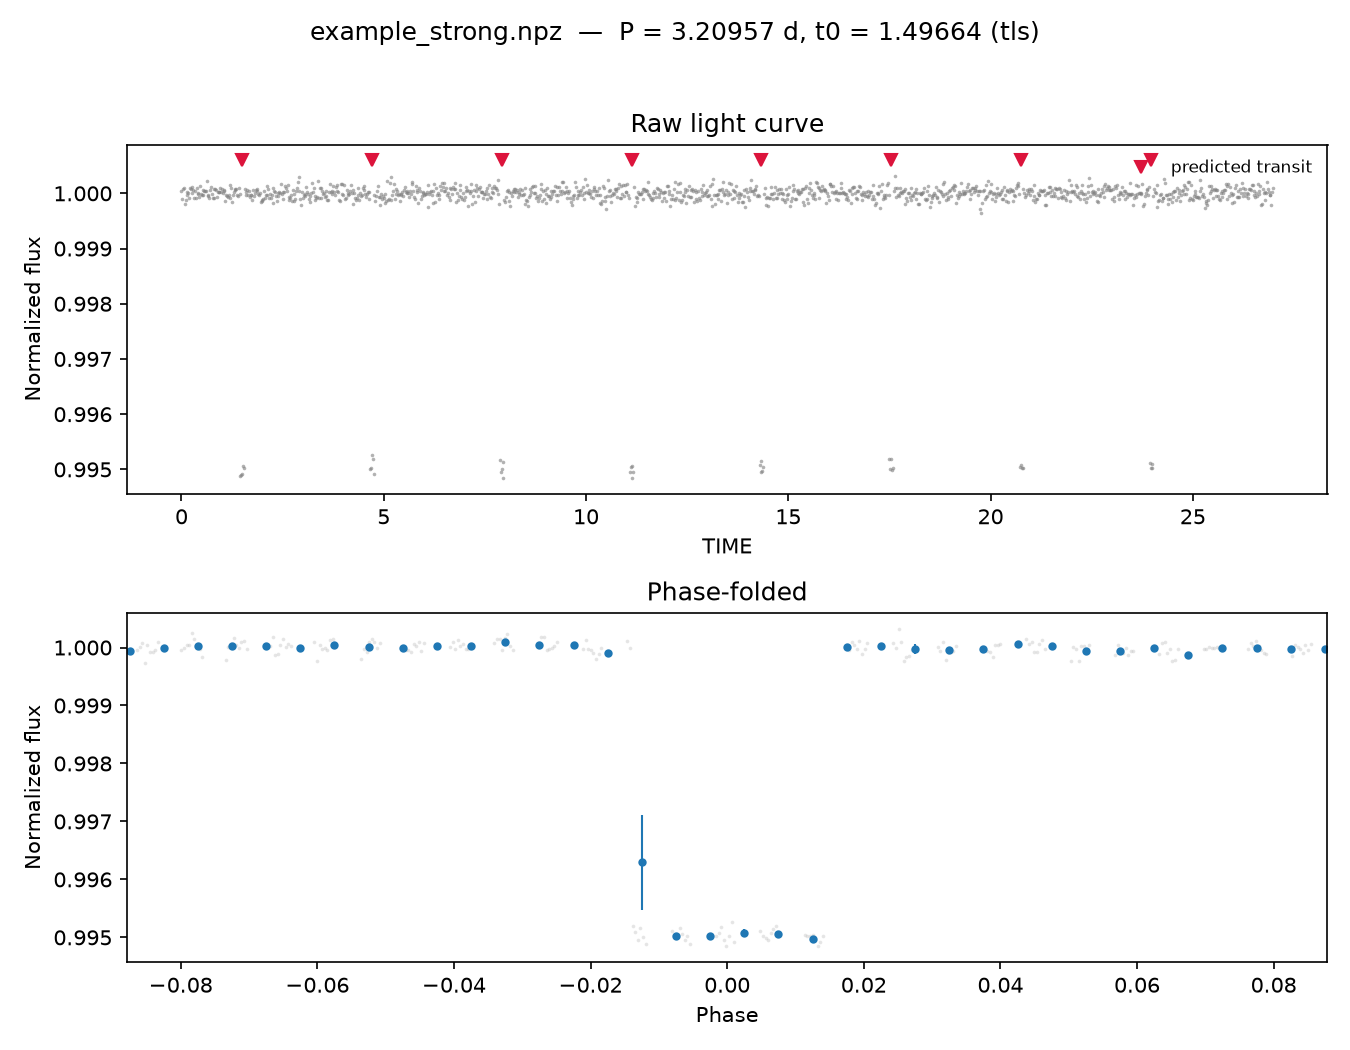
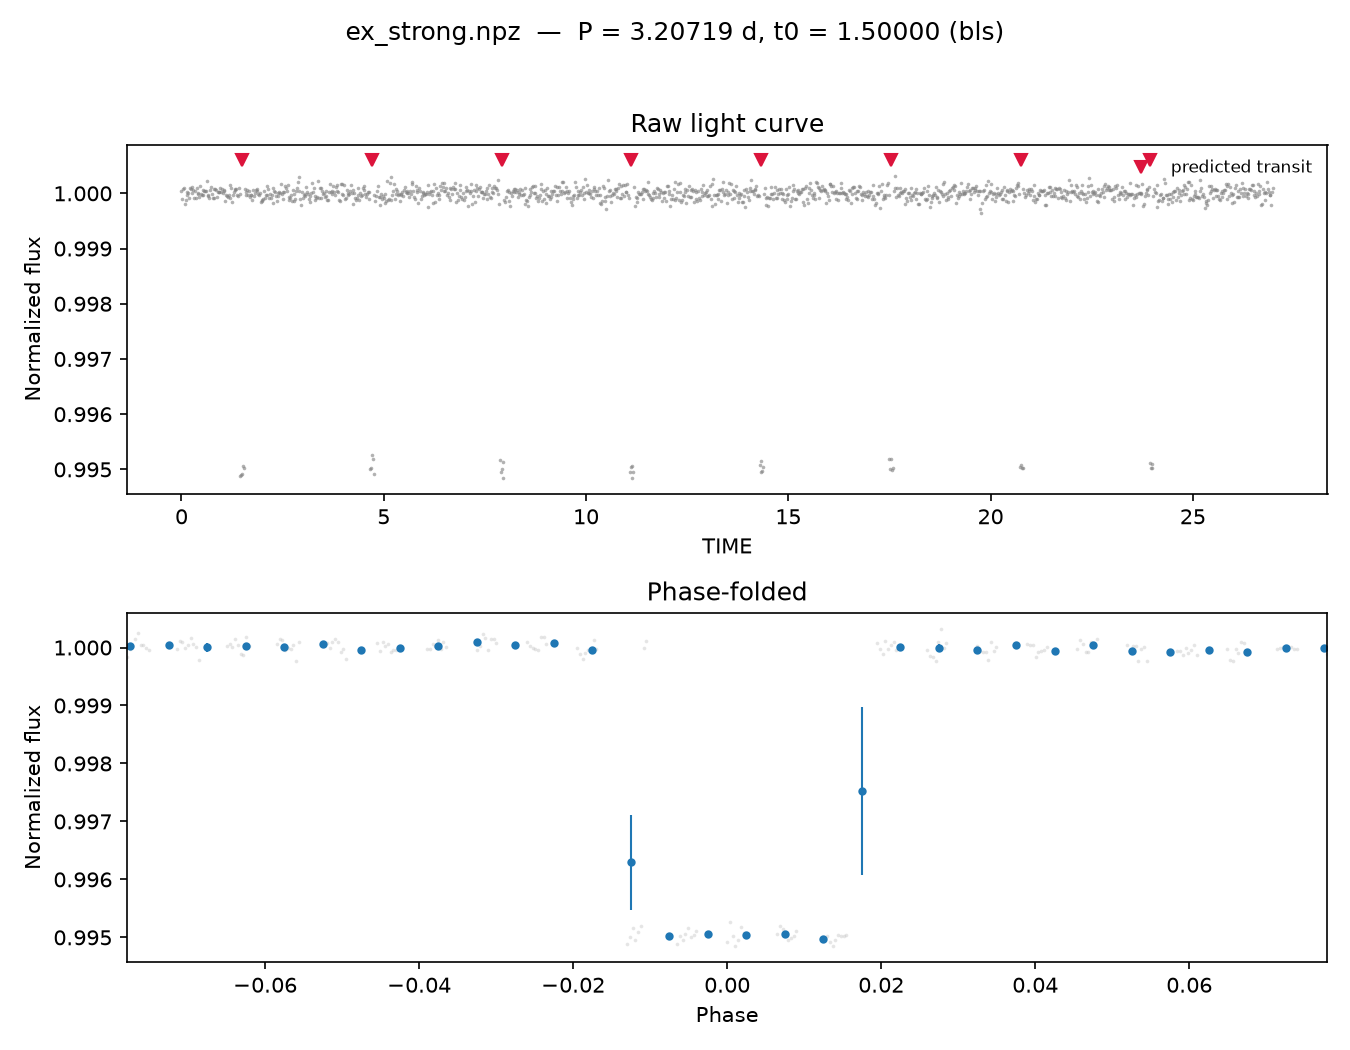
Expand README gallery with 4 new example figures
Regenerate the three existing example plots against current search.py
(the tuned frequency_factor) and add:

- example_tls.png: the same light curve run through --engine tls, to
  show TLS's sharper SDE on the same signal (~43 vs ~17 for BLS).
- example_detrend_before.png / example_detrend_after.png: a transit
  buried under heavy synthetic stellar variability, folded at its
  known ephemeris with and without --detrend, demonstrating the new
  biweight detrending's effect directly (SNR ~2.2 -> ~27).
- example_eclipsing_binary.png: a deep (~2%) eclipsing-binary signal,
  illustrating that foldr's summary numbers alone are often enough to
  flag a strong detection as a stellar eclipse rather than a planet.

Also forced --engine bls explicitly for the three base-install hero
examples so the gallery reflects what a `pip install foldr` user sees
by default, rather than whatever "auto" happens to pick in the dev
environment (which has TLS installed).

diff --git a/README.md b/README.md
@@ -111,16 +111,47 @@ search-statistic power stands out from the noise floor of the periodogram:
 `--period` mode always exits `0` on success since no search (and therefore
 no SDE) is involved.
 
-## More examples
+## Gallery
 
-A fainter, noisier signal near the recovery threshold — still confidently
-detected, but with visibly more scatter in the folded curve:
+**Marginal-depth transit.** A fainter, noisier signal near the recovery
+threshold — still confidently detected (SDE ≈ 19), but with visibly more
+scatter in the folded curve than the hero example above:
 
 ![Marginal-depth transit](docs/example_marginal.png)
 
-Pure noise, no injected signal — SDE falls below 7.0 and foldr exits `1`:
+**Pure noise, no injected signal.** SDE falls below 7.0 and foldr exits `1`:
 
 ![No signal](docs/example_noise.png)
+
+**TLS engine (`--engine tls`).** Same underlying light curve as the hero
+example, run through Transit Least Squares instead of BLS — note the
+sharper SDE (≈ 43 vs ≈ 17) since TLS fits the full transit shape (limb
+darkening, ingress/egress) rather than a box:
+
+![TLS engine](docs/example_tls.png)
+
+**`--detrend` before/after.** A transit riding on top of heavy stellar
+variability (two superimposed sinusoids), folded at its known ephemeris.
+Without detrending the transit is essentially invisible against the
+variability (SNR ≈ 2.2):
+
+![Before detrending](docs/example_detrend_before.png)
+
+The same light curve and fold, with `--detrend 0.3` applied (biweight
+running-window, ~3x the transit duration per wōtan's rule of thumb) — the
+transit is now the dominant feature (SNR ≈ 27):
+
+![After detrending](docs/example_detrend_after.png)
+
+**Eclipsing binary, not a planet.** A ~2% deep, sharply box-shaped eclipse
+— an order of magnitude deeper than a realistic planetary transit. foldr
+doesn't try to classify what it finds; the depth number in the summary
+table is often the fastest tell that a strong detection is a stellar
+eclipse, not a planet (the true secondary eclipse here sits at phase 0.5,
+outside the plot's default zoom window, which is sized to the primary's
+duration):
+
+![Eclipsing binary](docs/example_eclipsing_binary.png)
 
 ## Development
 